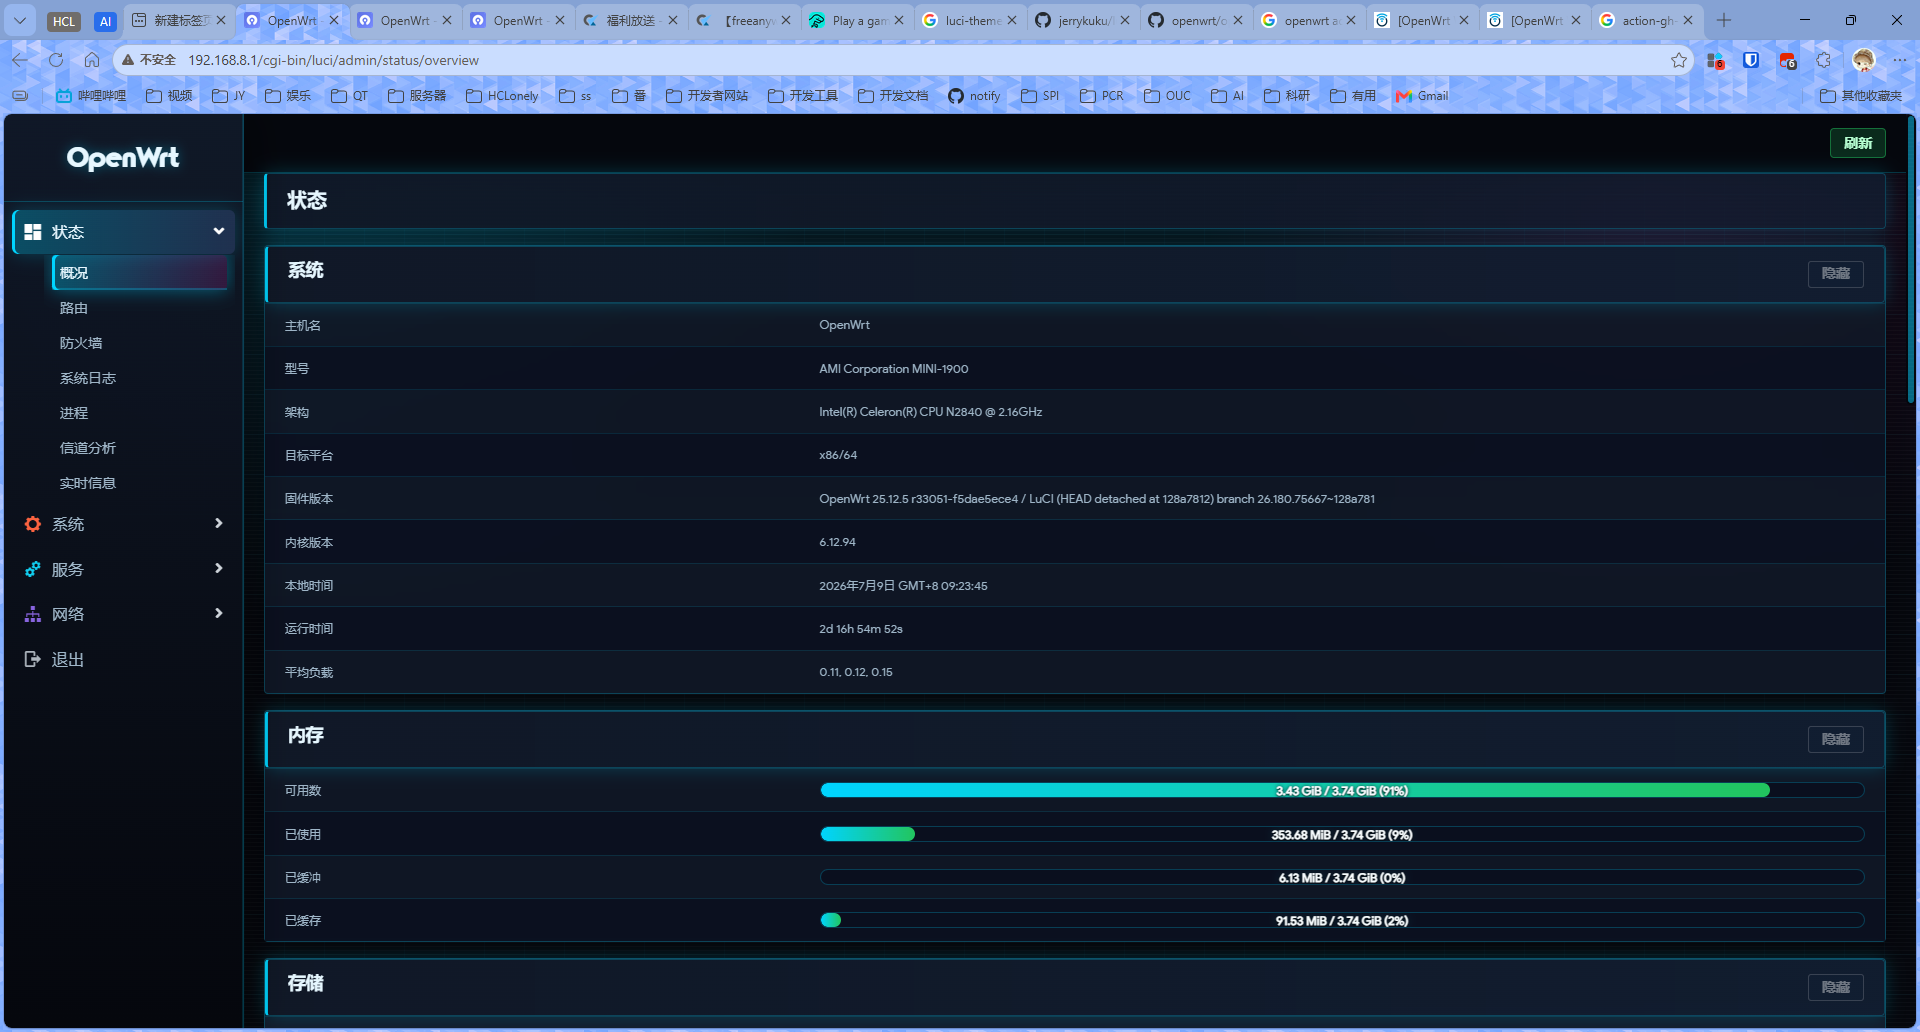
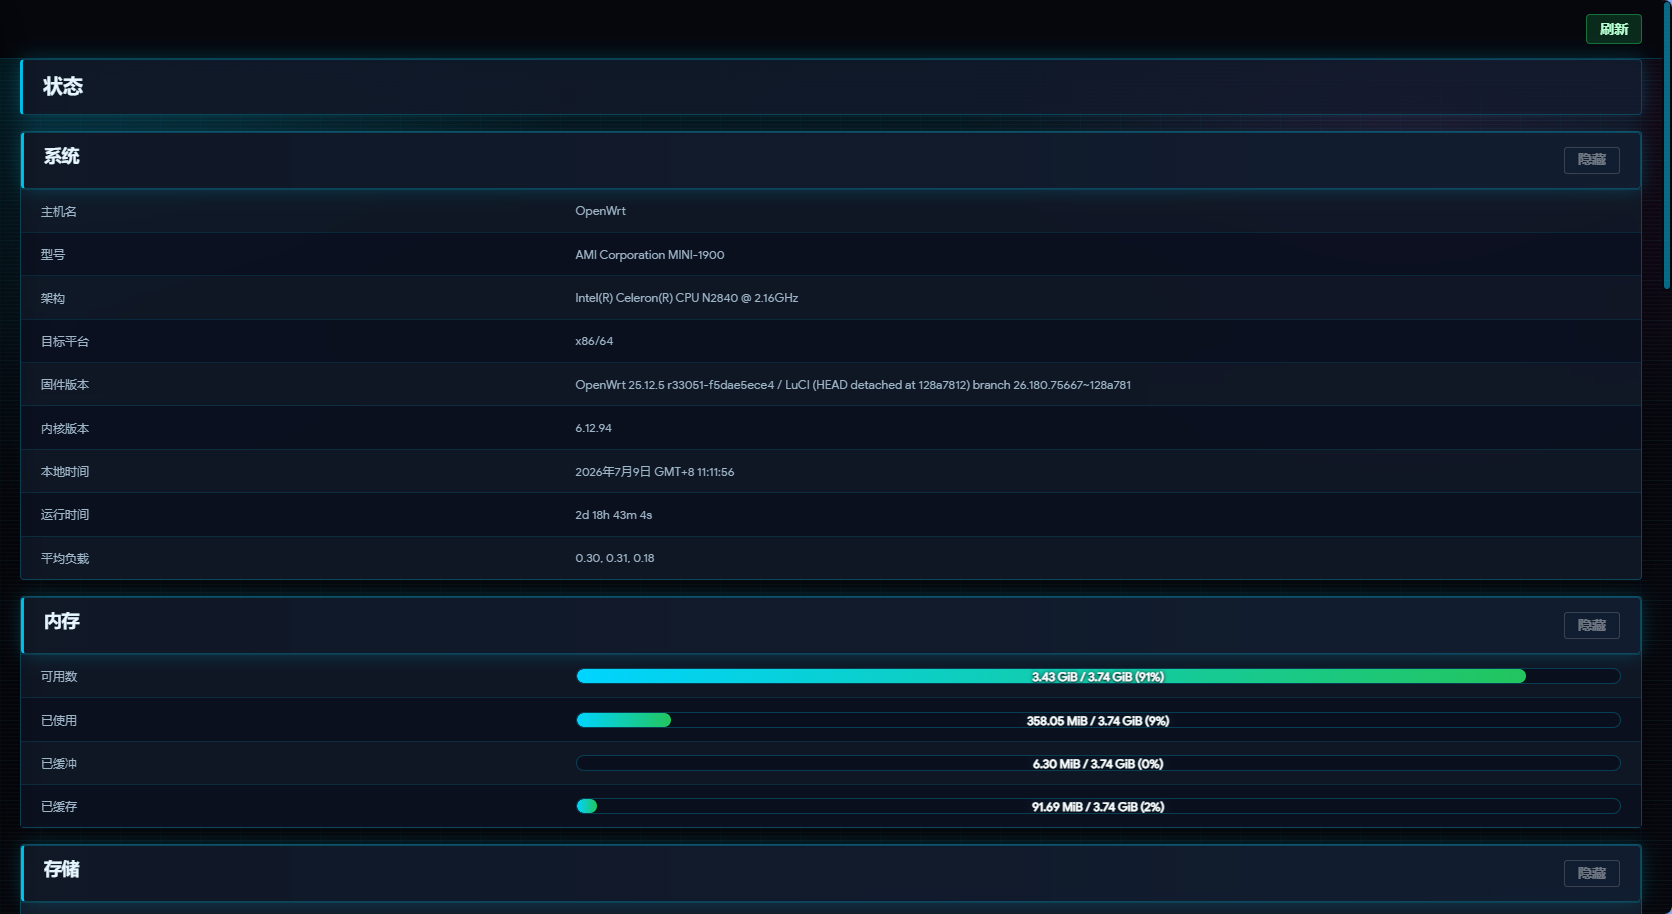
更新文档

diff --git a/README_ZH.md b/README_ZH.md
@@ -2,6 +2,8 @@
 
 Cyberpunk 是一款面向 OpenWrt 路由器管理后台的深色 LuCI 主题，采用克制的赛博朋克 HUD 视觉风格。
 
+[Document](/README.md) | [简体中文](/README_ZH.md)
+
 ## 特性
 
 - 独立 LuCI 主题包：`luci-theme-cyberpunk`

diff --git a/README.md b/README.md
@@ -2,6 +2,8 @@
 
 Cyberpunk is a dark OLED LuCI theme with a restrained neon HUD visual style for OpenWrt router administration.
 
+[Document](/README.md) | [简体中文](/README_ZH.md)
+
 ## Features
 
 - Independent LuCI theme package: `luci-theme-cyberpunk`
